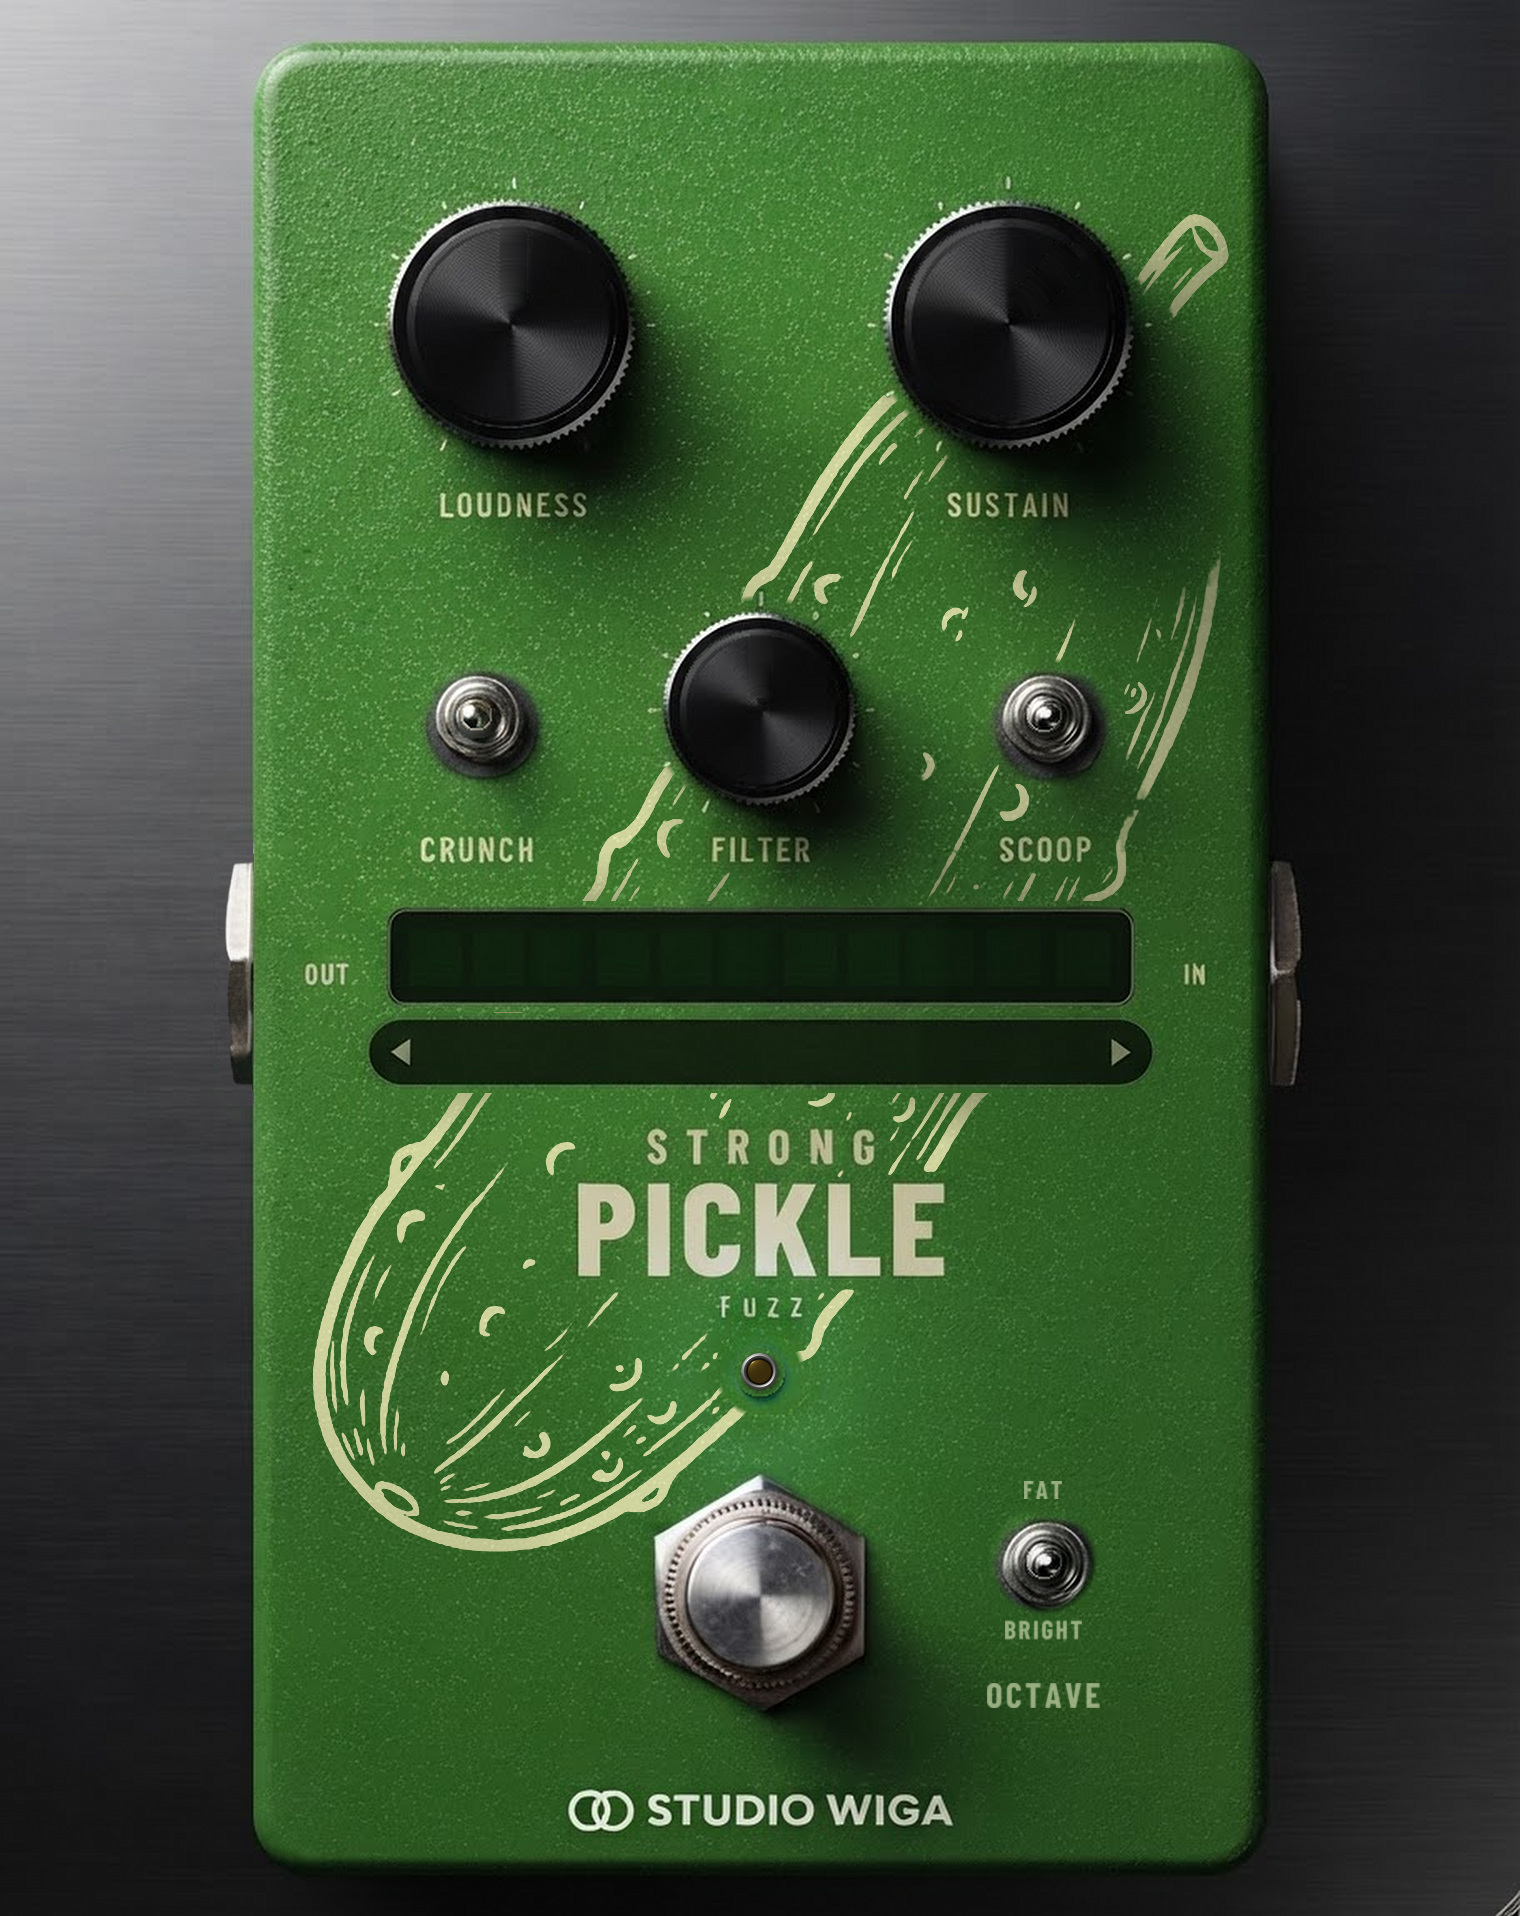
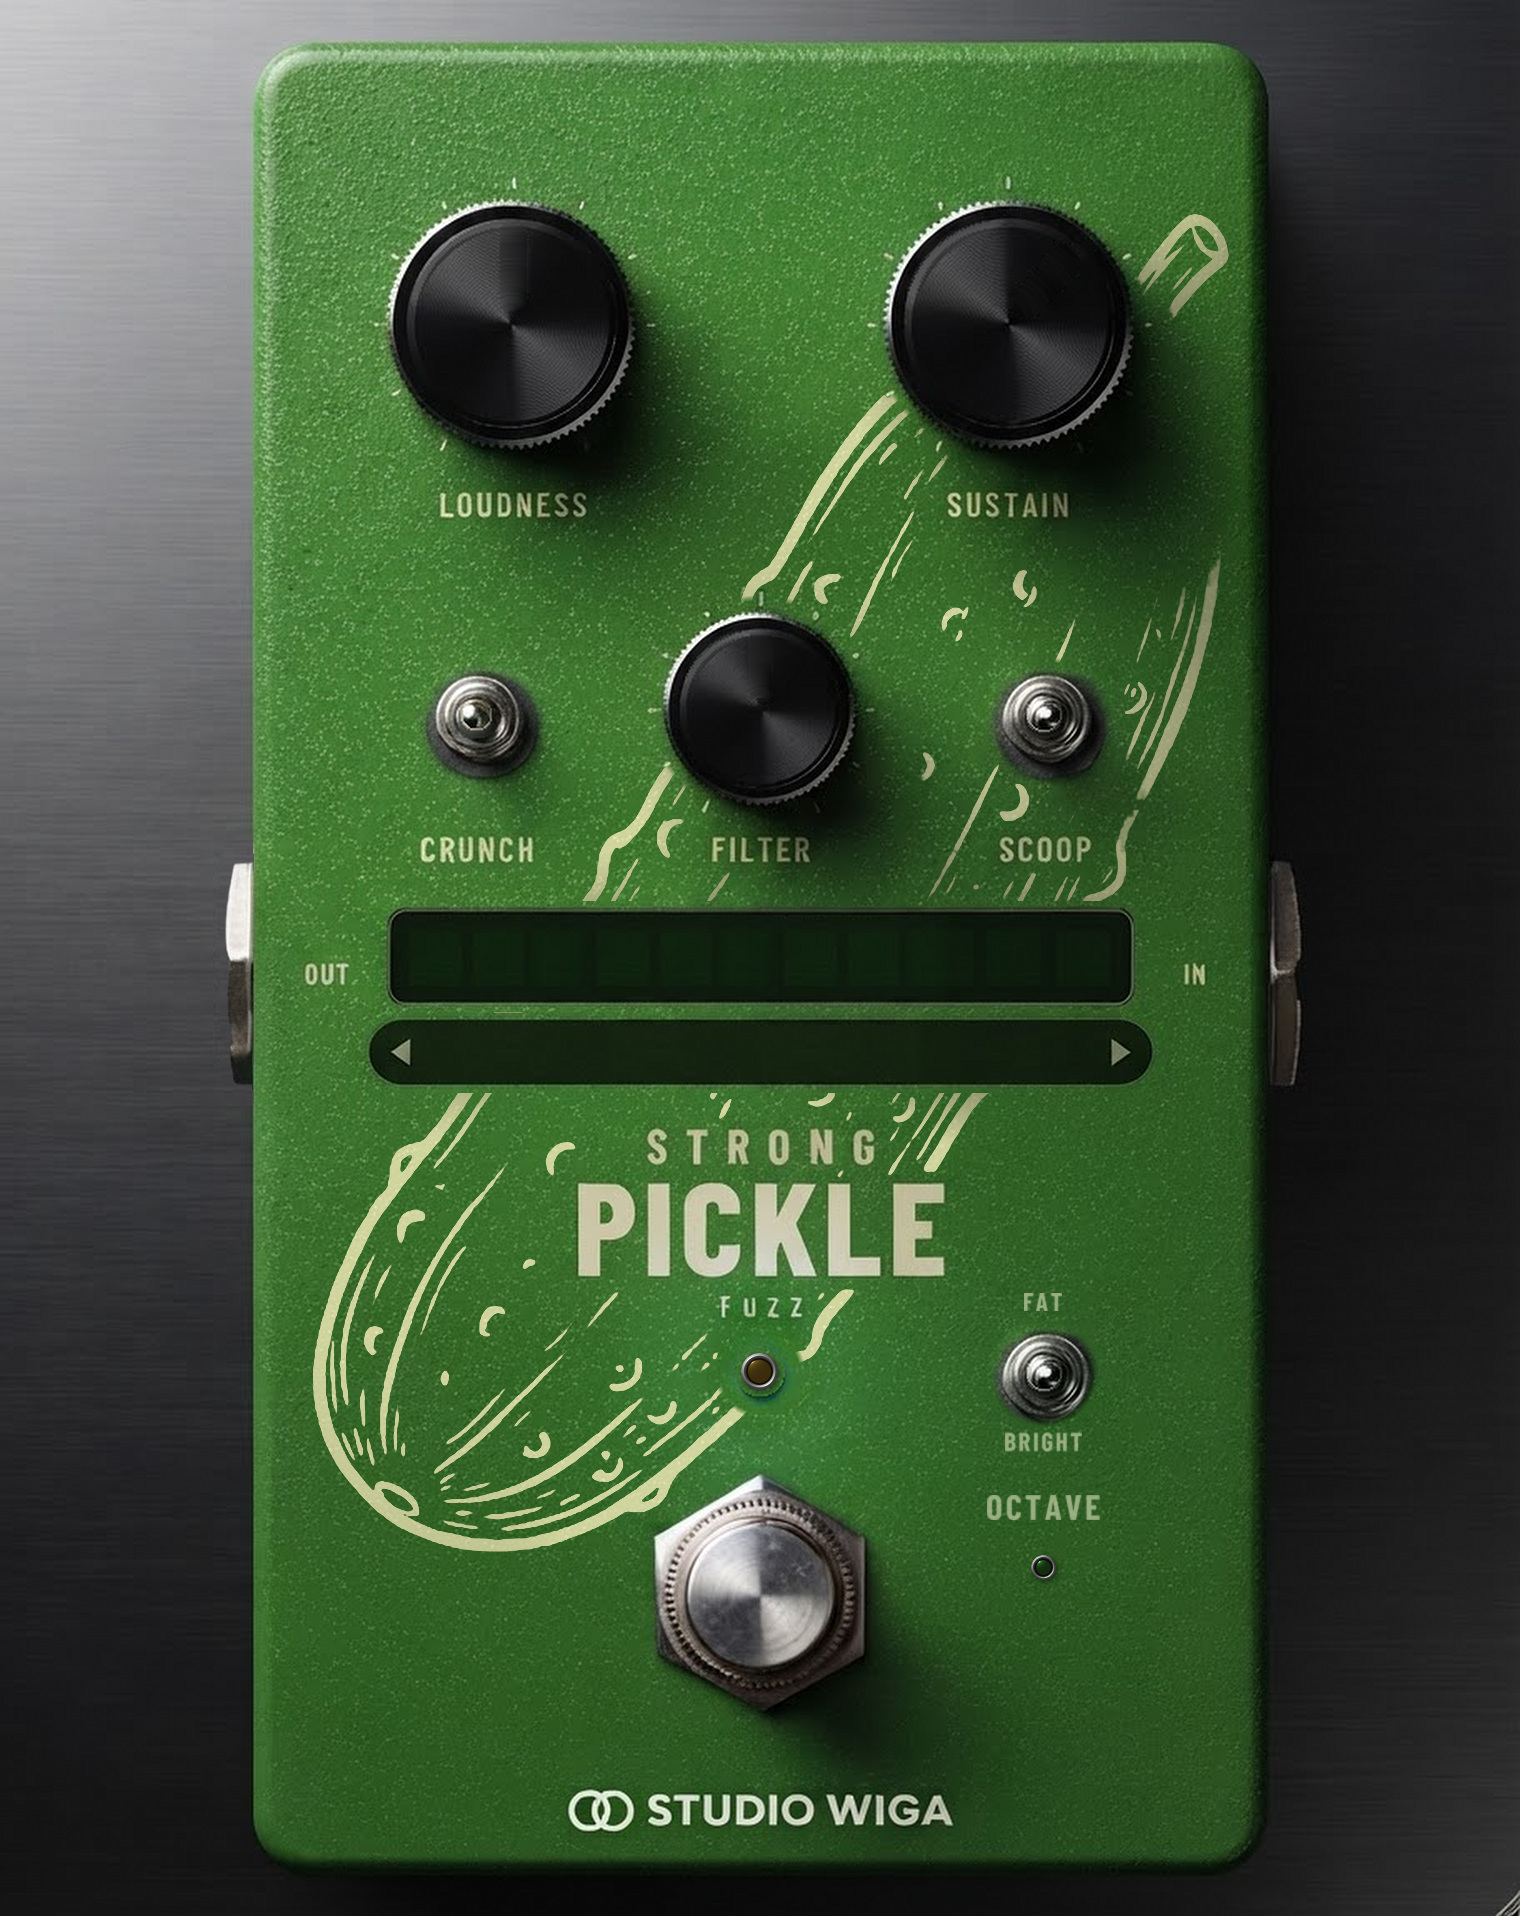
Apercu (non valide) : inverseur OCTAVE a la hauteur de la LED, petite LED d'octave verte
Claude-Session: https://claude.ai/code/session_01M5BvnKD25x5sTgnxyi1aHz

Changed region(s): [[0.6493, 0.6775, 0.7421, 0.893]]

diff --git a/tools/make_background.py b/tools/make_background.py
@@ -133,21 +133,21 @@ def normals(h, s):
 
 # LED eteinte : bague chromee fine (comme le visuel) + lentille jaune sombre
 LED_R = 6.6                                        # rayon de la lentille (unites)
-def render_led():
-    R = LED_R * 1.42; SS = 3; k = PX * SS
+def render_led(LR=LED_R, base=(58, 44, 12), hi=(80, 66, 30)):
+    R = LR * 1.42; SS = 3; k = PX * SS
     n = int(math.ceil((R * 2 + 8) * k))
     yk, xk = np.mgrid[0:n, 0:n].astype(np.float32)
     lx_, ly_ = (xk + 0.5) / k - n / k / 2, (yk + 0.5) / k - n / k / 2
     rr = np.hypot(lx_, ly_)
-    hk = np.where(rr < LED_R, 1.8 + 1.6 * np.sqrt(np.clip(1 - (rr / LED_R) ** 2, 0, 1)), 0)
-    ring = (rr >= LED_R) & (rr < R)
-    hk = np.where(ring, 2.6 * np.sin(np.clip((rr - LED_R) / (R - LED_R), 0, 1) * math.pi), hk)
+    hk = np.where(rr < LR, 1.8 + 1.6 * np.sqrt(np.clip(1 - (rr / LR) ** 2, 0, 1)), 0)
+    ring = (rr >= LR) & (rr < R)
+    hk = np.where(ring, 2.6 * np.sin(np.clip((rr - LR) / (R - LR), 0, 1) * math.pi), hk)
     Nk = normals(hk, k)
     ndl = np.clip((Nk * L).sum(-1), 0, 1); ndh = np.clip((Nk * HV).sum(-1), 0, 1)
     chrome = 60 + 150 * ndl ** 2 + 255 * ndh ** 50
-    lens = np.dstack([58 + 80 * ndh ** 30, 44 + 66 * ndh ** 30, 12 + 30 * ndh ** 30]) + 230 * (ndh ** 500)[..., None]
+    lens = np.dstack([base[0] + hi[0] * ndh ** 30, base[1] + hi[1] * ndh ** 30, base[2] + hi[2] * ndh ** 30]) + 230 * (ndh ** 500)[..., None]
     rgb = np.where(ring[..., None], np.dstack([chrome, chrome, chrome * 0.98]), lens)
-    gorge = (rr >= LED_R - 0.7) & (rr < LED_R + 0.3)
+    gorge = (rr >= LR - 0.7) & (rr < LR + 0.3)
     rgb = np.where(gorge[..., None], rgb * 0.3, rgb)
     m = (rr < R).astype(np.float32)
     rgb = cv2.resize(rgb, (n // SS, n // SS), interpolation=cv2.INTER_AREA)
@@ -387,7 +387,7 @@ img[JY0:JY1] = out
 import sys as _sys
 _sys.path.insert(0, HERE)
 from label_font import render as _render_label
-OCT_V = (TOGGLES[1][0], 936.0)                     # position dans le visuel (px) : x de SCOOP, entre footswitch et bord
+OCT_V = (TOGGLES[1][0], LED[1])                    # v1.4.1 : x de SCOOP, a la hauteur de la LED
 sx, sy = U(TOGGLES[1][0]) * PX, U(TOGGLES[1][1]) * PX
 tx, ty = U(OCT_V[0]) * PX, U(OCT_V[1]) * PX
 R0, R1, RP = 44.0, 57.0, 80
@@ -416,6 +416,14 @@ def _label(text, cx, cy, cap):
     reg9[:] = reg9 * (1 - 0.95 * lab[..., None]) + (inkc + 0.35 * grain) * (0.95 * lab[..., None])
     return (lx0, ly0, lw, lh)
 print('etiquettes', _label('OCTAVE', tx, ty + (849.0 - sy), 24.5), _label('FAT', tx, ty - 70, 18.0), _label('BRIGHT', tx, ty + 70, 18.0))
+# petite LED d'octave (verte, eteinte dans le fond ; le plugin l'allume quand l'octave est en service) sous OCTAVE
+OCT_LED_R = 4.4
+OCTLEDU = (tx / PX, (ty + 196.0) / PX)
+orgb, om = render_led(OCT_LED_R, base=(20, 44, 16), hi=(40, 80, 34)); on_ = orgb.shape[0]
+oxa, oya = int(round(OCTLEDU[0] * PX - on_ / 2)), int(round(OCTLEDU[1] * PX - on_ / 2))
+osh = np.zeros(img.shape[:2], np.float32); osh[oya + 2:oya + 2 + on_, oxa + 2:oxa + 2 + on_] = om
+img *= (1 - 0.45 * cv2.GaussianBlur(osh, (0, 0), 2.5)[..., None])
+img[oya:oya + on_, oxa:oxa + on_] = img[oya:oya + on_, oxa:oxa + on_] * (1 - om[..., None]) + orgb * om[..., None]
 OCTU = (U(OCT_V[0]), U(OCT_V[1]))
 print('octave : inverseur', OCTU)
 
@@ -428,7 +436,7 @@ kp = [(U(cx), U(cy)) for cx, cy, _ in KNOBS]
 kr = [U(R) for _, _, R in KNOBS]
 tp = [(U(cx), U(cy)) for cx, cy in TOGGLES]
 st = tuple(U(v) for v in STATUS_BOX); pr = tuple(U(v) for v in PRESET_BOX)
-lay = dict(knobs=kp, knobR=kr, toggles=tp, octave=OCTU, togHalf=TOG_HALF, led=LEDU, ledR=LED_R, foot=(U(FOOT[0]), U(FOOT[1])),
+lay = dict(knobs=kp, knobR=kr, toggles=tp, octave=OCTU, octLed=OCTLEDU, togHalf=TOG_HALF, led=LEDU, ledR=LED_R, foot=(U(FOOT[0]), U(FOOT[1])),
            footR=U(FOOT_R), glow=GLOW, pickle=PKU, status=st, preset=pr)
 json.dump(lay, open(os.path.join(HERE, 'layout.json'), 'w'), indent=1)
 open(os.path.join(ROOT, 'Layout.h'), 'w').write(f"""// genere par tools/make_background.py - ne pas modifier a la main (repere 760 x 958)
@@ -439,6 +447,7 @@ namespace layout
     const juce::Point<float> knobPos[3] = {{ {P(kp[0])}, {P(kp[1])}, {P(kp[2])} }};
     const float knobR[3] = {{ {kr[0]:.2f}f, {kr[1]:.2f}f, {kr[2]:.2f}f }};      // rayon du moletage
     const juce::Point<float> crunchPos {P(tp[0])}, scoopPos {P(tp[1])}, octavePos {P(OCTU)};
+    const juce::Point<float> octLedPos {P(OCTLEDU)}; const float octLedR = {OCT_LED_R:.2f}f;   // LED d'octave
     const float togHalf = {TOG_HALF:.2f}f;
     const juce::Point<float> ledPos {P(LEDU)}; const float ledR = {LED_R:.2f}f;
     const juce::Point<float> footPos {P((U(FOOT[0]), U(FOOT[1])))}; const float footR = {U(FOOT_R):.2f}f;

diff --git a/PluginEditor.cpp b/PluginEditor.cpp
@@ -14,6 +14,9 @@ namespace
     const float togHalf = layout::togHalf;
     const Point<float> ledPos = layout::ledPos;
     const float ledR = layout::ledR;
+    const Point<float> octLedPos = layout::octLedPos;      // petite LED d'octave (verte), sous OCTAVE
+    const float octLedR = layout::octLedR;
+    const Colour octCore (0xffeaffd6), octMid (0xff5fe23e), octDeep (0xff1d6512);
     const Rectangle<float> glowRect = layout::glowRect;
     const Rectangle<float> pickleRect = layout::pickleRect;    // « PICKLE » s'allume en vert avec l'effet
     const Point<float> footPos = layout::footPos;
@@ -248,6 +251,7 @@ PickleAudioProcessorEditor::PickleAudioProcessorEditor (PickleAudioProcessor& p)
     lastPresetCounter = proc.presetCounter.load();
     lastMidiCount = proc.midiCounter.load();
     ledLevel = proc.rawAt (PickleAudioProcessor::rActive) > 0.5f ? 1.0f : 0.0f;
+    octLedLevel = (ledLevel > 0.5f && roundToInt (proc.rawAt (PickleAudioProcessor::rOctave)) != 0) ? 1.0f : 0.0f;
 
     // Taille par defaut = taille minimale (impossible de reduire en dessous), proportions bloquees
     const int defaultW = roundToInt ((float) defaultH * (float) baseW / (float) baseH);
@@ -477,6 +481,17 @@ void PickleAudioProcessorEditor::timerCallback()
         askRepaint (scaled (glowRect));
         askRepaint (scaled (pickleRect));
     }
+    // LED d'octave : allumee quand l'octave est en service (Fat ou Bright) et l'effet actif ; meme fondu
+    const bool octOn = on && roundToInt (proc.rawAt (PickleAudioProcessor::rOctave)) != 0;
+    octLedLevel += ((octOn ? 1.0f : 0.0f) - octLedLevel) * (octOn ? 0.45f : 0.28f);
+    if (octLedLevel < 0.003f) octLedLevel = 0.0f;
+    if (octLedLevel > 0.997f) octLedLevel = 1.0f;
+    if (std::abs (octLedLevel - drawnOctLed) > 0.004f)
+    {
+        drawnOctLed = octLedLevel;
+        const float hr = octLedR * 4.0f;
+        askRepaint (scaled ({ octLedPos.x - hr, octLedPos.y - hr, hr * 2.0f, hr * 2.0f }).expanded (2));
+    }
 
     const auto l1 = (learnLineUntil > 0.0 && now < learnLineUntil + 800.0 ? learnLine : buildStatusLine()), pl = buildPresetLine();
     const bool textChanged = l1 != lastLine1;
@@ -522,6 +537,26 @@ void PickleAudioProcessorEditor::drawLed (Graphics& g)
     g.setColour (ledDeep.darker (0.6f).withAlpha (0.55f * level));
     g.drawEllipse (c.x - r + 0.6f, c.y - r + 0.6f, r * 2.0f - 1.2f, r * 2.0f - 1.2f, r * 0.12f);
 
+    ColourGradient sp (Colours::white.withAlpha (0.75f * level), c.x - r * 0.30f, c.y - r * 0.42f,
+                       Colours::white.withAlpha (0.0f), c.x - r * 0.30f + r * 0.32f, c.y - r * 0.42f, true);
+    g.setGradientFill (sp);
+    g.fillEllipse (c.x - r * 0.62f, c.y - r * 0.70f, r * 0.64f, r * 0.52f);
+}
+
+void PickleAudioProcessorEditor::drawOctLed (Graphics& g)
+{
+    const float level = octLedLevel;
+    if (level <= 0.003f) return;
+    const auto c = octLedPos; const float r = octLedR;
+    ColourGradient halo (octMid.withAlpha (0.30f * level), c.x, c.y, octMid.withAlpha (0.0f), c.x + r * 3.8f, c.y, true);
+    g.setGradientFill (halo);
+    g.fillEllipse (c.x - r * 3.8f, c.y - r * 3.8f, r * 7.6f, r * 7.6f);
+    ColourGradient body (octCore.withAlpha (level), c.x - r * 0.10f, c.y - r * 0.12f,
+                         octDeep.withAlpha (level), c.x + r * 1.05f, c.y + r * 0.2f, true);
+    body.addColour (0.30, octCore.interpolatedWith (octMid, 0.55f).withAlpha (level));
+    body.addColour (0.62, octMid.withAlpha (level));
+    g.setGradientFill (body);
+    g.fillEllipse (c.x - r, c.y - r, r * 2.0f, r * 2.0f);
     ColourGradient sp (Colours::white.withAlpha (0.75f * level), c.x - r * 0.30f, c.y - r * 0.42f,
                        Colours::white.withAlpha (0.0f), c.x - r * 0.30f + r * 0.32f, c.y - r * 0.42f, true);
     g.setGradientFill (sp);
@@ -589,6 +624,7 @@ void PickleAudioProcessorEditor::paint (Graphics& g)
     const float s = (float) getHeight() / (float) baseH;
     g.addTransform (AffineTransform::scale (s));
     drawLed (g);
+    drawOctLed (g);
     drawStatus (g);
     drawPresetBar (g);
 }

diff --git a/Layout.h b/Layout.h
@@ -5,7 +5,8 @@ namespace layout
 {
     const juce::Point<float> knobPos[3] = { { 255.83f, 161.67f }, { 501.67f, 160.00f }, { 380.00f, 353.33f } };
     const float knobR[3] = { 59.17f, 59.17f, 48.33f };      // rayon du moletage
-    const juce::Point<float> crunchPos { 237.92f, 357.08f }, scoopPos { 521.67f, 356.67f }, octavePos { 521.67f, 780.00f };
+    const juce::Point<float> crunchPos { 237.92f, 357.08f }, scoopPos { 521.67f, 356.67f }, octavePos { 521.67f, 685.83f };
+    const juce::Point<float> octLedPos { 521.67f, 783.83f }; const float octLedR = 4.40f;   // LED d'octave
     const float togHalf = 26.00f;
     const juce::Point<float> ledPos { 379.58f, 685.83f }; const float ledR = 6.60f;
     const juce::Point<float> footPos { 376.67f, 796.67f }; const float footR = 45.00f;

diff --git a/PluginEditor.h b/PluginEditor.h
@@ -111,6 +111,7 @@ private:
     juce::String buildStatusLine() const;
     juce::String buildPresetLine() const;
     void drawLed (juce::Graphics&);
+    void drawOctLed (juce::Graphics&);
     void drawStatus (juce::Graphics&);
     void drawPresetBar (juce::Graphics&);
 
@@ -135,6 +136,7 @@ private:
     FootSwitchArea footswitch;
 
     float ledLevel = 0.0f, drawnLed = -1.0f;
+    float octLedLevel = 0.0f, drawnOctLed = -1.0f;
     int lastChanged = -1;
     float statusAlpha = 0.0f, drawnStatus = -1.0f;
     double statusUntil = 0.0;
